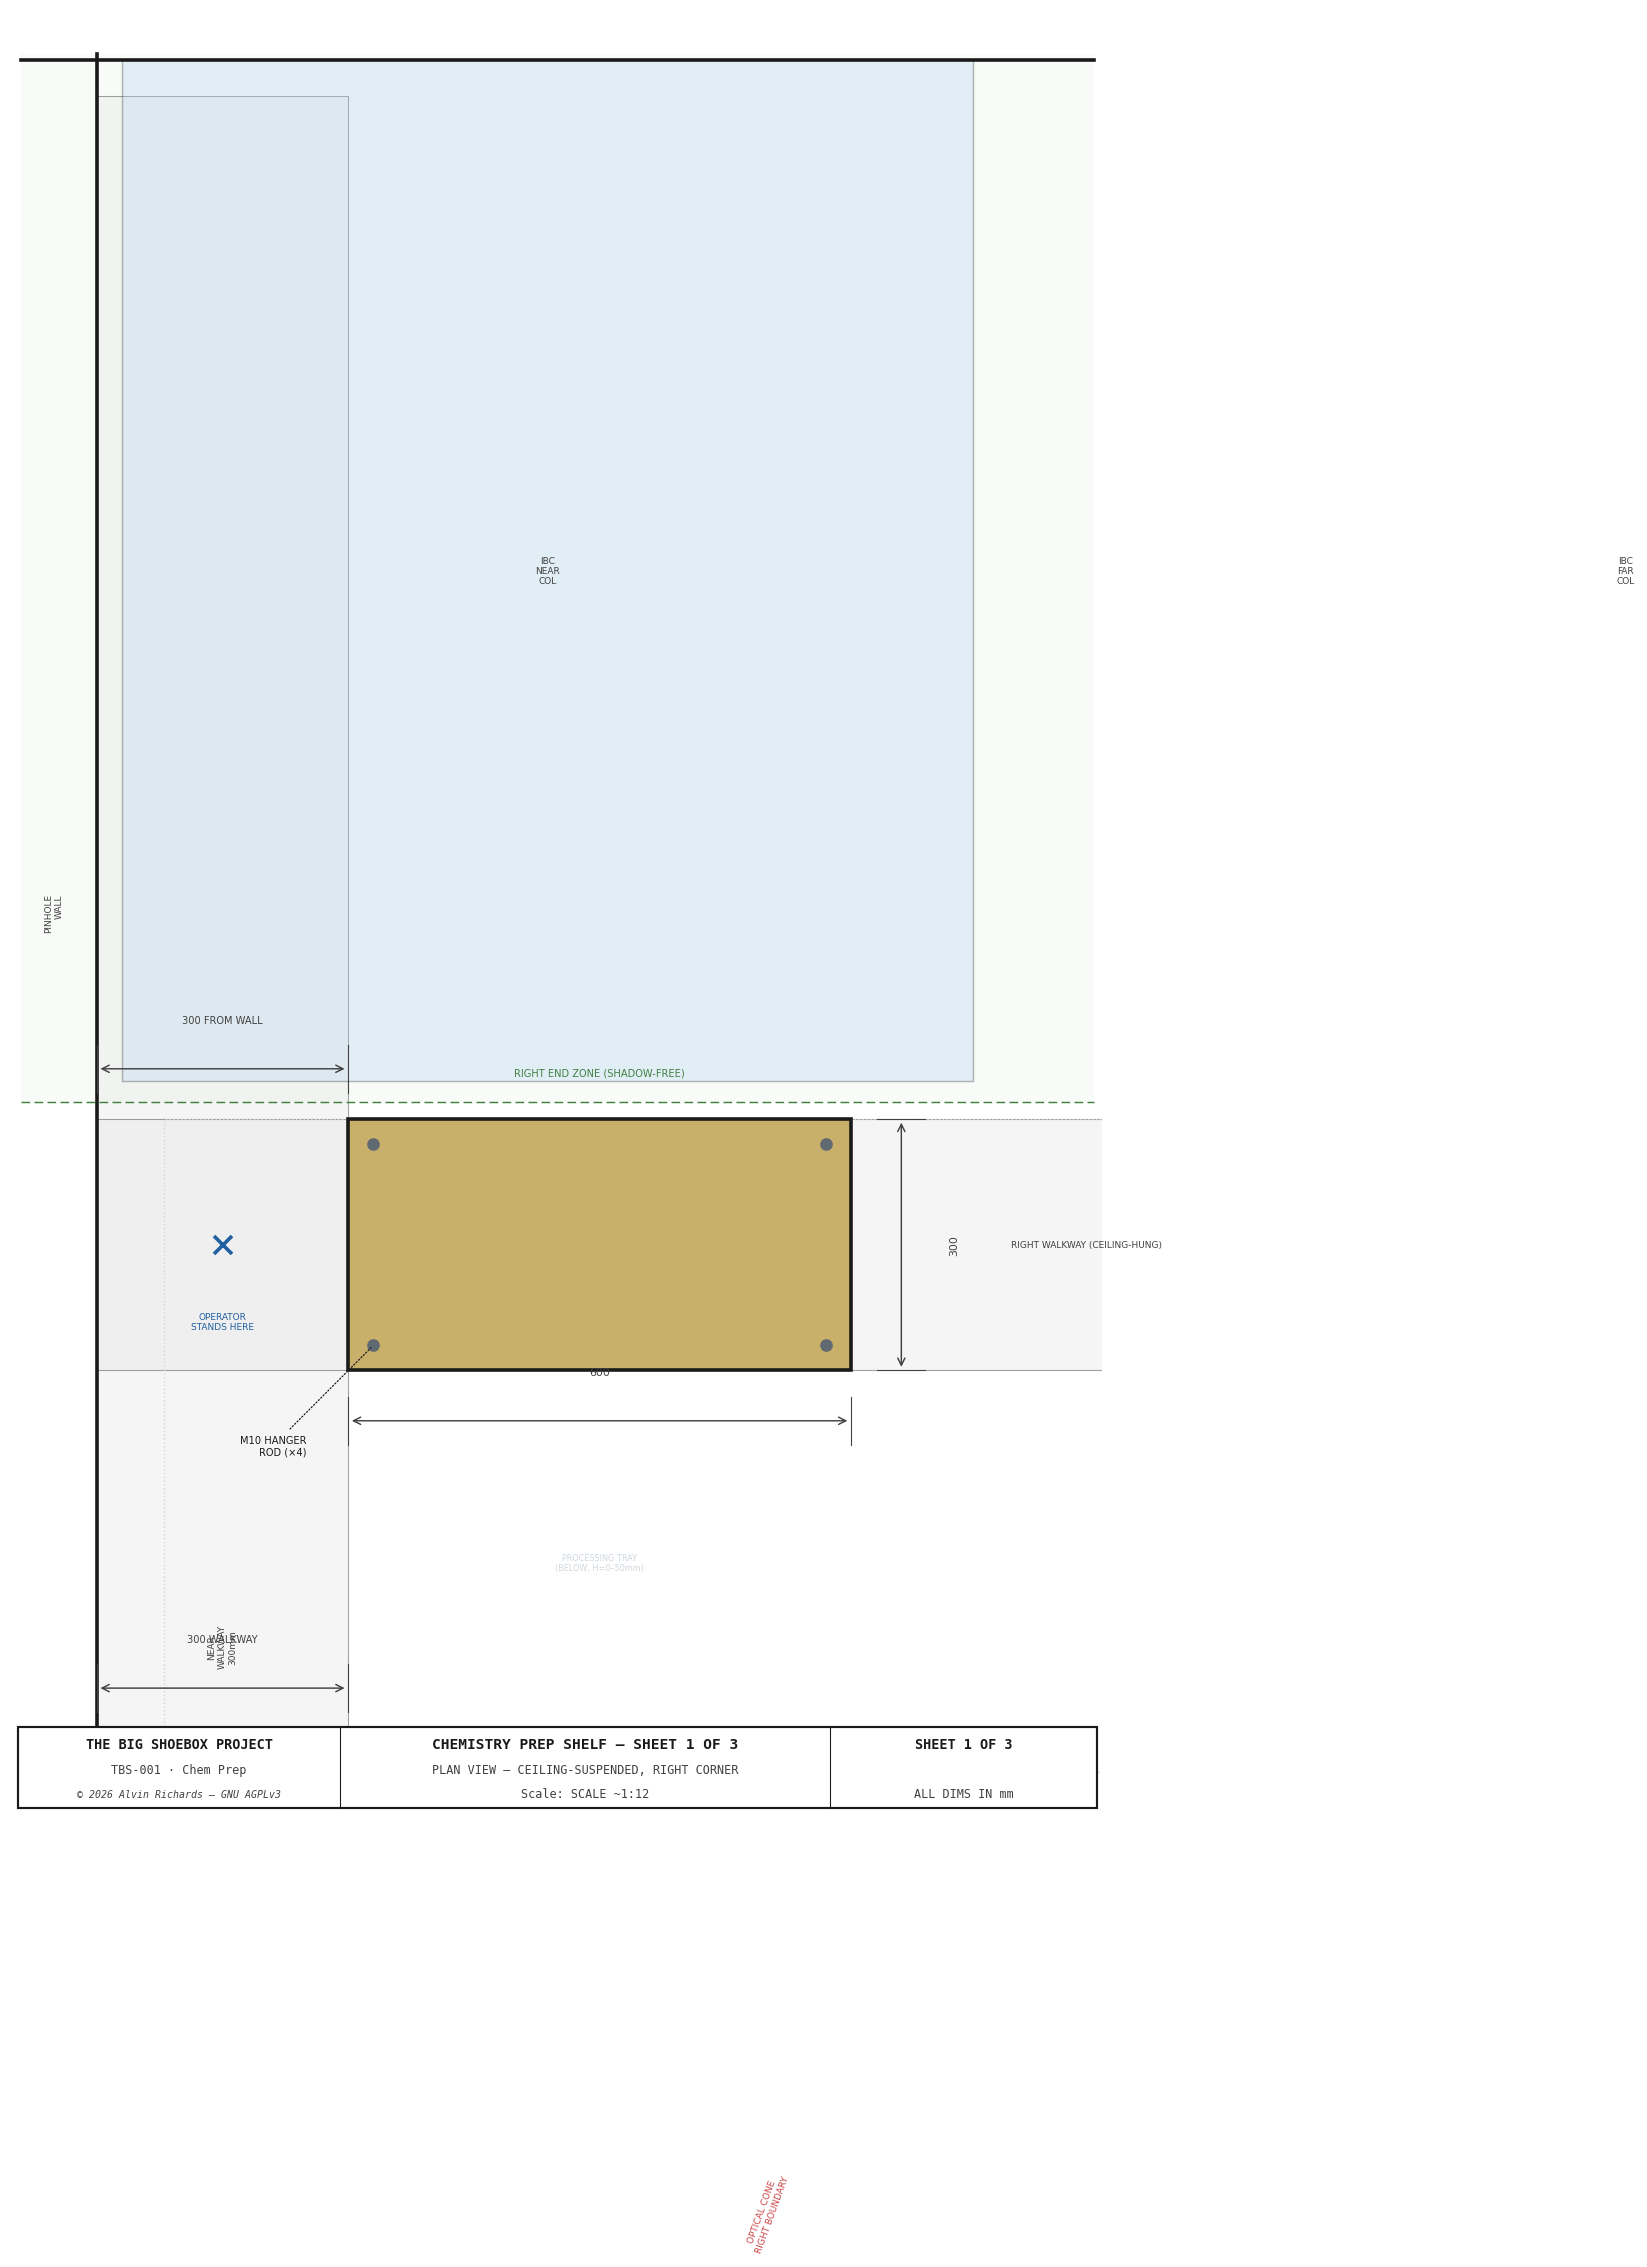
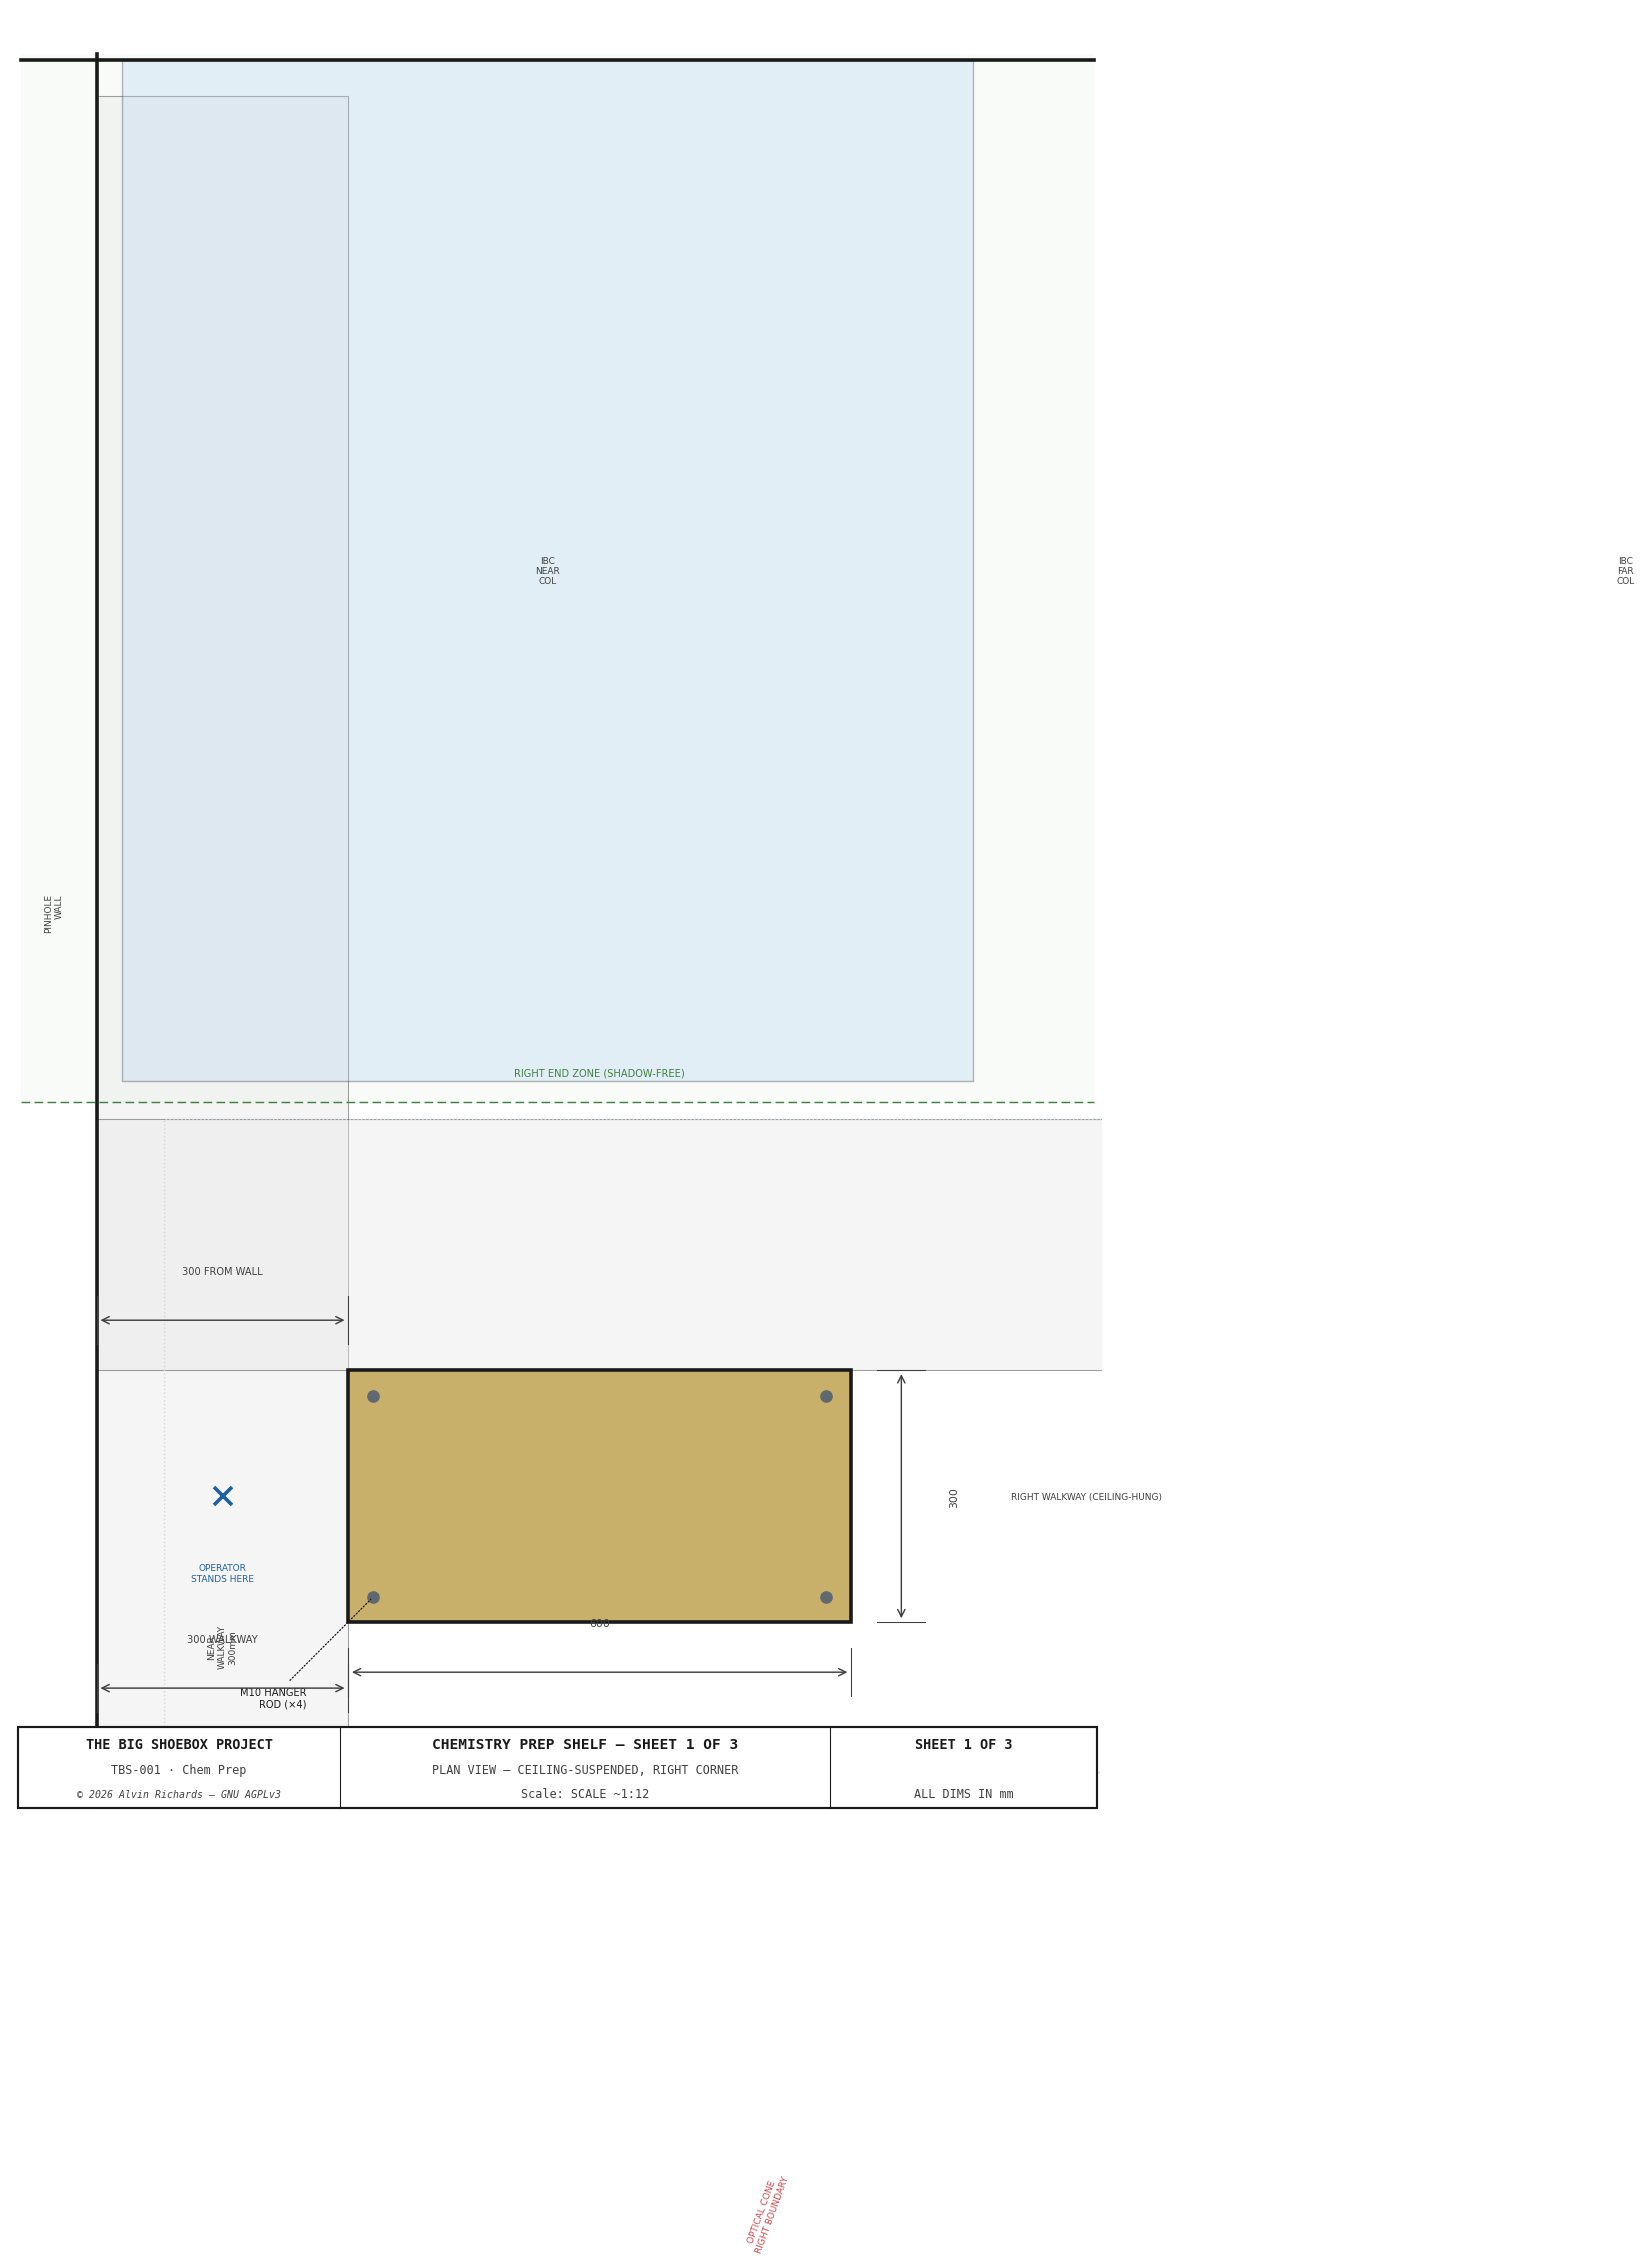
Move shelf inside walkway perimeter — no walkway overlap
Shift shelf X range from 4329–4629 (overlapping right walkway) to
4029–4329 (adjacent, inside walkway perimeter). Shelf is now entirely
within the processing area corner — all walkways remain clear for
passage at all times.

Changed region(s): [[0.1548, 0.494, 0.5264, 0.7411], [0.1548, 0.7411, 0.1858, 0.7719], [0.1239, 0.5558, 0.1548, 0.5867]]

diff --git a/tbs_constants.py b/tbs_constants.py
@@ -182,13 +182,14 @@ PUMP_H_HI  = 600     # pump manifold top H (mm)
 
 # ── Chemistry prep shelf (ceiling-suspended, right corner) ────────────────────
 # Single ceiling-hung shelf for mixing cyanotype chemistry, coating muslin, and
-# materials staging.  Suspended from 4x M10 threaded rod hangers at the corner
-# where the near walkway meets the right walkway.  On the tray side (inside) of
-# the near walkway — walkway stays clear for passage.  Shadow-free: cone right
-# boundary at Yd=600 is X=2,996mm; shelf at X=4,329+ is >1,300mm outside cone.
-SHELF_X_L      = 4329    # shelf left edge X (mm) — aligned with right walkway inner edge
-SHELF_X_R      = 4629    # shelf right edge X (mm) — aligned with tray right edge
-SHELF_W        = 300     # shelf width in X direction (mm) = right walkway width
+# materials staging.  Suspended from 4x M10 threaded rod hangers in the
+# processing area corner, just inside the right walkway and near walkway.
+# Does not overlap any walkway — all walkways clear for passage.
+# Shadow-free: cone right boundary at Yd=600 is X=3,148mm; shelf at
+# X=4,029+ is >880mm outside cone.
+SHELF_X_L      = 4029    # shelf left edge X (mm) — 300mm left of right walkway
+SHELF_X_R      = 4329    # shelf right edge X (mm) — flush with right walkway inner edge
+SHELF_W        = 300     # shelf width in X direction (mm)
 SHELF_YD_NEAR  = 300     # shelf near edge Yd (mm) — at near walkway outer edge
 SHELF_YD_FAR   = 900     # shelf far edge Yd (mm)
 SHELF_DEPTH    = 600     # shelf depth in Yd direction (mm)

diff --git a/generate_shelf_diagram.py b/generate_shelf_diagram.py
@@ -62,7 +62,7 @@ C_IBC    = "#B0D0F0"    # IBC outline
 C_ZONE   = "#E8F4E8"    # shadow-free zone fill
 
 # ── Derived constants ────────────────────────────────────────────────────────
-SHELF_CX = (SHELF_X_L + SHELF_X_R) / 2   # shelf center X = 4,479mm
+SHELF_CX = (SHELF_X_L + SHELF_X_R) / 2   # shelf center X = 4,179mm
 SHELF_CY = (SHELF_YD_NEAR + SHELF_YD_FAR) / 2  # shelf center Yd = 600mm
 HANGER_ROD_L = C_HGT - SHELF_H            # rod length: 2388 - 1025 = 1363mm
 # Hanger positions: 4 corners, inset 30mm from shelf edges
@@ -140,7 +140,7 @@ def sheet1():
     ax.text(px(WALKWAY_W / 2), py(4000), "NEAR\nWALKWAY\n300mm",
             fontsize=5, color=C_DIM, ha="center", va="center", rotation=90)
 
-    # ── Right walkway (X=4329 to 4629, ceiling-hung) ──
+    # ── Right walkway (X=4329 to 4629, ceiling-hung — adjacent to shelf) ──
     ax.add_patch(Rectangle((px(0), py(WALKWAY_RIGHT_X)),
                             px(C_WID) - px(0),
                             py(WALKWAY_RIGHT_X + WALKWAY_RIGHT_W) - py(WALKWAY_RIGHT_X),

diff --git a/chemistry-prep-shelves.md b/chemistry-prep-shelves.md
@@ -22,7 +22,7 @@ The shelf must not obstruct walkway navigation (the operator walks the full leng
 
 ## 2. Location and Spatial Constraints
 
-The shelf occupies the right corner of the container interior, between the near walkway outer edge (Yd=300mm) and the processing tray far side (Yd=900mm), at the same X range as the right walkway (X=4,329–4,629mm). The operator accesses the shelf from the near walkway by turning 90° to face the tray side.
+The shelf occupies the right corner of the processing area, just inside the walkway perimeter. It sits between the near walkway outer edge (Yd=300mm) and the processing tray far side (Yd=900mm), immediately left of the right walkway (X=4,029–4,329mm). The operator accesses the shelf from the near walkway by turning 90° to face the tray side. No walkway is obstructed.
 
 ### 2.1 Optical Cone Clearance
 
@@ -32,17 +32,17 @@ At Yd=600mm (shelf centroid), the optical cone right boundary is:
                     = 2,637 + (4,649 − 2,637) × 600 / 2,362
                     = 2,637 + 511 = 3,148mm
 
-The shelf left edge (X=4,329mm) is 1,181mm outside the optical cone. The shelf cannot vignette the image at any film plane position.
+The shelf left edge (X=4,029mm) is 881mm outside the optical cone. The shelf cannot vignette the image at any film plane position.
 
 ### 2.2 Spatial Constraints
 
 | Constraint | Value |
 |-----------|-------|
-| Shelf X range | X=4,329–4,629mm (300mm) |
+| Shelf X range | X=4,029–4,329mm (300mm) |
 | Shelf Yd range | Yd=300–900mm (600mm) |
 | Near walkway | Yd=0–300mm — shelf starts at walkway outer edge |
 | Processing tray | Floor level (rim H=50mm) — well below shelf at H=1,025mm |
-| Right walkway | X=4,329–4,629mm, ceiling-hung (same X range, Yd=0–300mm) |
+| Right walkway | X=4,329–4,629mm, ceiling-hung (adjacent, Yd=0–300mm) |
 | Ceiling height | H=2,388mm (container interior) |
 | Cable trunking | H=1,800mm (40×25mm PVC, horizontal full length) |
 
@@ -56,7 +56,7 @@ Single ceiling-suspended platform:
 
 | Parameter | Value |
 |-----------|-------|
-| Position | X=4,329–4,629mm, Yd=300–900mm |
+| Position | X=4,029–4,329mm, Yd=300–900mm |
 | Width (X direction) | 300mm |
 | Depth (Yd direction) | 600mm |
 | Work surface height | H=1,025mm above floor (925mm above walkway deck) |
@@ -119,7 +119,7 @@ The shelf is permanently installed — it does not fold or detach for transport.
 
 ## 5. Operator Access
 
-The operator stands on the near walkway (deck at H=100mm) at approximately X=4,479mm (shelf midpoint in X), turned 90° to face the processing tray side. The shelf work surface is at H=1,025mm (925mm above the walkway deck) — ergonomic counter height for standing prep work.
+The operator stands on the near walkway (deck at H=100mm) at approximately X=4,179mm (shelf midpoint in X), turned 90° to face the processing tray side. The shelf work surface is at H=1,025mm (925mm above the walkway deck) — ergonomic counter height for standing prep work.
 
 The shelf near edge (Yd=300mm) aligns with the near walkway outer edge, so the operator can reach the full 600mm shelf depth from the walkway without leaning. Items used most frequently (scale, graduated cylinders) are staged at the near edge; bulk storage (bottles, wash trays) at the far edge.
 
@@ -174,7 +174,7 @@ The near walkway remains completely clear for transit in both directions — no 
 
 ### Sheet 1 — Plan View
 
-Top-down view showing the shelf position (X=4,329–4,629mm, Yd=300–900mm) relative to the near walkway, right walkway, processing tray, and optical cone boundary. The shelf is entirely outside the optical cone and does not encroach on the walkway.
+Top-down view showing the shelf position (X=4,029–4,329mm, Yd=300–900mm) relative to the near walkway, right walkway, processing tray, and optical cone boundary. The shelf is entirely outside the optical cone and inside the walkway perimeter — no walkway overlap.
 
 ![Chemistry Prep Shelf — Sheet 1: Plan View](assets/shelf-sheet1.png)
 
@@ -182,7 +182,7 @@ Top-down view showing the shelf position (X=4,329–4,629mm, Yd=300–900mm) rel
 
 ### Sheet 2 — Section Elevation
 
-Cross-section at X=4,479mm (shelf midpoint) looking along the X-axis. Shows the ceiling-hung hanger rods (1,363mm), shelf platform at H=1,025mm, operator silhouette on the near walkway, and the processing tray at floor level below.
+Cross-section at X=4,179mm (shelf midpoint) looking along the X-axis. Shows the ceiling-hung hanger rods (1,363mm), shelf platform at H=1,025mm, operator silhouette on the near walkway, and the processing tray at floor level below.
 
 ![Chemistry Prep Shelf — Sheet 2: Section Elevation](assets/shelf-sheet2.png)
 
